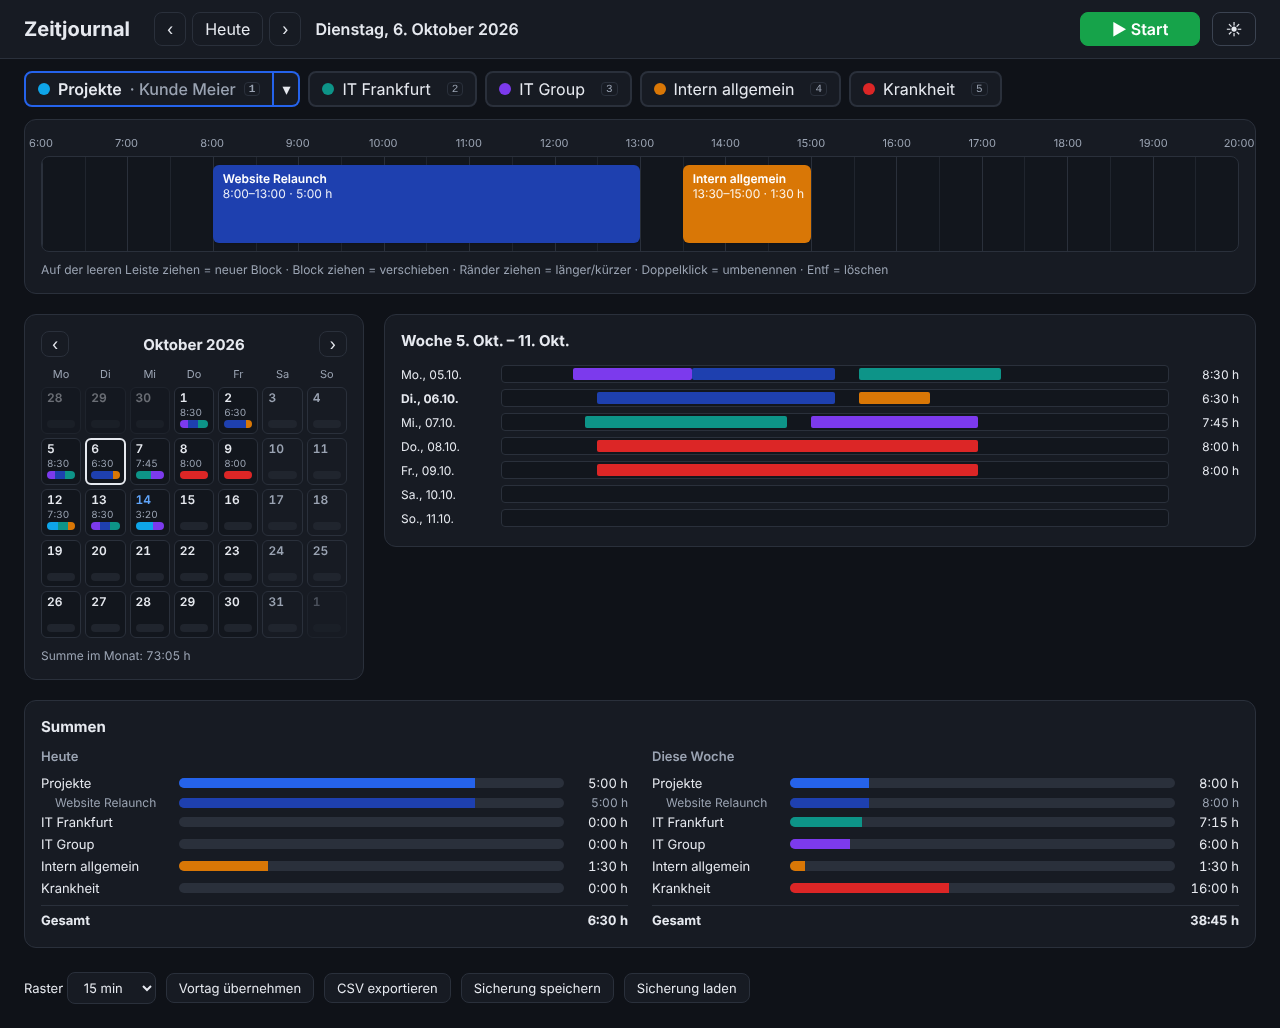
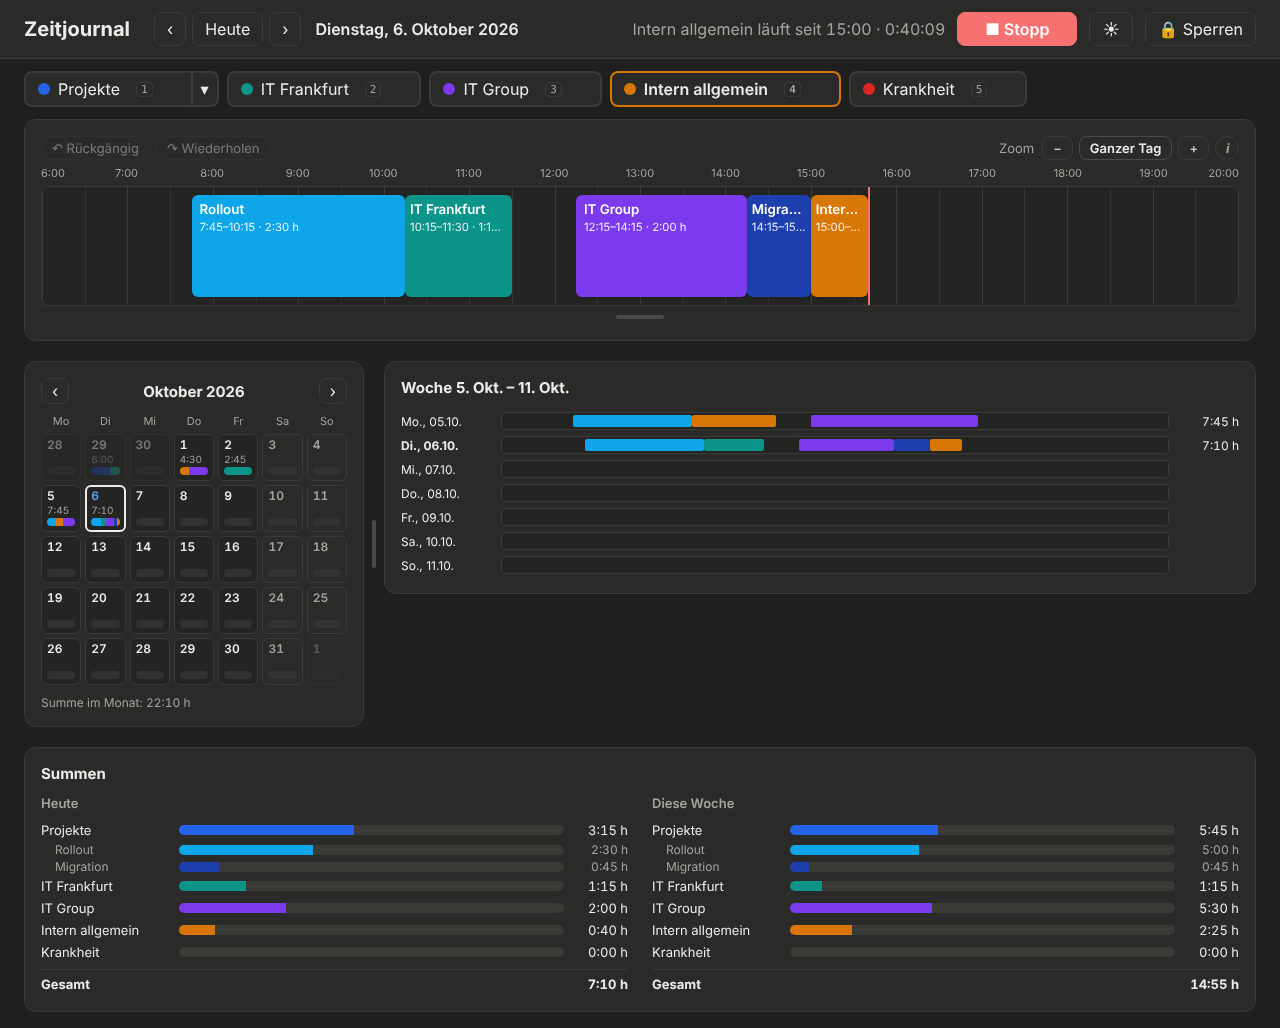
Dunkelmodus in neutralem Anthrazit statt Graublau
Flächen, Linien und Schrift im dunklen Modus ohne Blaustich, angelehnt an
die dunklen Oberflächen der Claude-App und von Adobe. Screenshots
erneuert.

Claude-Session: https://claude.ai/code/session_019KYk1w9oETUe27bZH7ojgJ

diff --git a/style.css b/style.css
@@ -16,32 +16,32 @@
 @media (prefers-color-scheme: dark) {
   :root:not([data-theme="light"]) {
     color-scheme: dark;
-    --bg: #0f1218;
-    --panel: #171b23;
-    --text: #e6e9ef;
-    --muted: #9aa3b2;
-    --line: #2a303b;
-    --line-strong: #3b4351;
-    --line-soft: #20252e;
-    --track: #12161d;
-    --hover: #222833;
-    --accent: #60a5fa;
+    --bg: #1f1f1d;
+    --panel: #2a2a28;
+    --text: #ecebe7;
+    --muted: #a5a39d;
+    --line: #3a3a37;
+    --line-strong: #4b4a46;
+    --line-soft: #323230;
+    --track: #242422;
+    --hover: #363633;
+    --accent: #5ea1f2;
     --danger: #f87171;
     --shadow: 0 8px 24px rgba(0,0,0,.5);
   }
 }
 :root[data-theme="dark"] {
   color-scheme: dark;
-  --bg: #0f1218;
-  --panel: #171b23;
-  --text: #e6e9ef;
-  --muted: #9aa3b2;
-  --line: #2a303b;
-  --line-strong: #3b4351;
-  --line-soft: #20252e;
-  --track: #12161d;
-  --hover: #222833;
-  --accent: #60a5fa;
+  --bg: #1f1f1d;
+  --panel: #2a2a28;
+  --text: #ecebe7;
+  --muted: #a5a39d;
+  --line: #3a3a37;
+  --line-strong: #4b4a46;
+  --line-soft: #323230;
+  --track: #242422;
+  --hover: #363633;
+  --accent: #5ea1f2;
   --danger: #f87171;
   --shadow: 0 8px 24px rgba(0,0,0,.5);
 }
